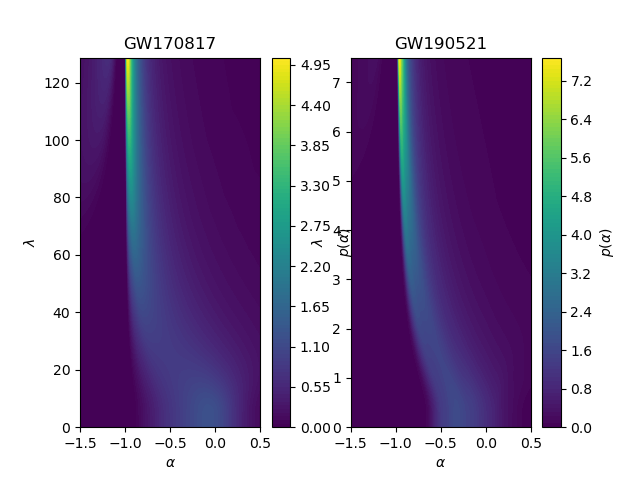
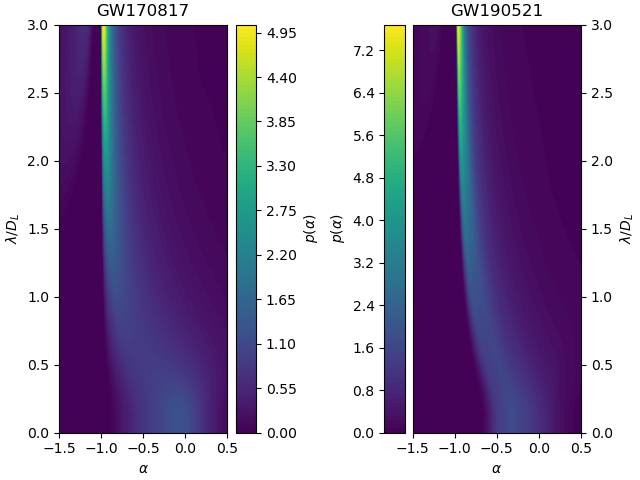
plot3 ok

diff --git a/plot3.1.py b/plot3.1.py
@@ -4,7 +4,7 @@ import matplotlib as mpl
 import matplotlib.image as mpimg
 import matplotlib.pyplot as plt
 
-fig, axs = plt.subplots(nrows=2)
+fig, axs = plt.subplots(nrows=2, layout='constrained')
 
 f = h5py.File('GW170817_GWTC-1.hdf5','r')
 dset = f['IMRPhenomPv2NRT_lowSpin_posterior']
@@ -30,9 +30,11 @@ g, p_g = g/2.5, p_g*2.5
 s = ((g[1:]-g[:-1])*(p_g[1:]+p_g[:-1])).sum()/2
 g_19, p_g_19 = g, p_g/s
 
-def plot(ax, lamdas,
-         alphas=np.linspace(-1.5, 0.5, 1001)):
-    plt.xlim((alphas.min(), alphas.max()))
+def plot(ax,
+         lamdas=np.linspace(0, 42.9*3, 101),
+         alphas=np.linspace(-1.5, 0.5, 1001),
+         levels=101, cmap='viridis', norm='linear'):
+    axs[ax].set_xlim((alphas.min(), alphas.max()))
     p_alphas = np.empty((lamdas.size, alphas.size))
     for i in range(lamdas.size):
         lamda = lamdas[i]
@@ -42,7 +44,7 @@ def plot(ax, lamdas,
         else:
             e = (1+d_l/lamda)*np.exp(-d_l/lamda)
             a_17 = -((1-g_17)/(1-g_17*e))
-        a_17 = a_17[np.where(abs(a_17)<=5)]
+        a_17 = a_17[np.where(abs(a_17)<=10)]
         bins = int((a_17.max()-a_17.min())*200)
         hist, bin_edges = np.histogram(a_17, bins=bins, density=True)
         a_17, p_a_17 = (bin_edges[:-1]+bin_edges[1:])/2, hist
@@ -56,21 +58,27 @@ def plot(ax, lamdas,
             e = (1+2.5e3/lamda)*np.exp(-2.5e3/lamda)
             a_19 = -((1-g_19)/(1-g_19*e))
             p_a_19 = p_g_19*((1-e)/(1+a_19*e)**2)
+        a_i = np.sort_complex(a_19+p_a_19*1j)
+        a_19, p_a_19 = a_i.real, a_i.imag
         s = ((a_19[1:]-a_19[:-1])*(p_a_19[1:]+p_a_19[:-1])).sum()/2
         a_19, p_a_19 = a_19, p_a_19/s
-        a = np.sort(np.hstack((a_17, a_19)))
-        p_a = (np.interp(a, a_17, p_a_17, left=0, right=0)
-              +np.interp(a, a_19, p_a_19, left=0, right=0))/2
-        p_alphas[i] = np.interp(alphas, a, p_a)
-    return axs[ax].contourf(alphas, lamdas, p_alphas, levels=100)
+        p_alphas[i] = (np.interp(alphas, a_17, p_a_17)
+                      +np.interp(alphas, a_19, p_a_19))/2
+    if (ax == 0):
+        extend = 'neither'
+    if (ax == 1):
+        p_alphas[p_alphas>5] = 5
+        extend = 'max'
+    return axs[ax].contourf(alphas, lamdas, p_alphas,
+                            levels=levels, cmap=cmap, extend=extend)
 
-qcs0 = plot(ax=0, lamdas=np.linspace(0, 42.9*3, 101))
-qcs1 = plot(ax=1, lamdas=np.linspace(2.5e3/3, 2.5e3*3, 101))
+qcs_0 = plot(0)
+qcs_1 = plot(1,
+             lamdas=np.linspace(2.5e3/3, 2.5e3*3, 101))
+fig.suptitle('GW170817 + GW190521')
 for ax in axs:
-    ax.set_xlabel('$\\alpha$')
-    ax.set_ylabel('$\\lambda$(Mpc)')
-for qcs in (qcs0, qcs1):
-    plt.colorbar(qcs, label='$p(\\alpha)$')
-
-fig.suptitle('GW170817+GW190521')
+   ax.set_xlabel('$\\alpha$')
+   ax.set_ylabel('$\\lambda$(Mpc)')
+fig.colorbar(qcs_0, ax=axs[0], label='$p(\\alpha)$')
+fig.colorbar(qcs_1, ax=axs[1], label='$p(\\alpha)$')
 fig.savefig('plot3_1')

diff --git a/plot2.1.py b/plot2.1.py
@@ -4,7 +4,7 @@ import matplotlib as mpl
 import matplotlib.image as mpimg
 import matplotlib.pyplot as plt
 
-fig, axs = plt.subplots(ncols=2)
+fig, axs = plt.subplots(ncols=2, layout='constrained')
 
 f = h5py.File('GW170817_GWTC-1.hdf5','r')
 dset = f['IMRPhenomPv2NRT_lowSpin_posterior']
@@ -16,7 +16,7 @@ g, p_g = (bin_edges[:-1]+bin_edges[1:])/2, hist
 s = ((g[1:]-g[:-1])*(p_g[1:]+p_g[:-1])).sum()/2
 g, p_g = g, p_g/s
 
-def plot_17(lamdas=np.linspace(0, 42.9*3, 101),
+def plot_17(lamdas=np.linspace(0, 3, 101),
             alphas=np.linspace(-1.5, 0.5, 1001)):
     axs[0].set_xlim((alphas.min(), alphas.max()))
     p_alphas = np.empty((lamdas.size, alphas.size))
@@ -25,17 +25,19 @@ def plot_17(lamdas=np.linspace(0, 42.9*3, 101),
         if (lamda == 0):
             e = 0
         else:
-            e = (1+42.9/lamda)*np.exp(-42.9/lamda)
+            e = (1+1/lamda)*np.exp(-1/lamda)
         alpha = -((1-g)/(1-g*e))
         p_alpha = p_g*((1-e)/(1+alpha*e)**2)
         alpha_i = np.sort_complex(alpha+p_alpha*1j)
         p_alphas[i] = np.interp(alphas, alpha_i.real, alpha_i.imag)
-    return axs[0].contourf(alphas, lamdas, p_alphas, levels=100)
+    return axs[0].contourf(alphas, lamdas, p_alphas, levels=101)
 
 qcs_17 = plot_17()
 axs[0].set_title('GW170817')
 axs[0].set_xlabel('$\\alpha$')
-axs[0].set_ylabel('$\\lambda$(Mpc)')
+axs[0].set_ylabel('$\\lambda/D_L$')
+axs[0].yaxis.set_label_position('left')
+axs[0].yaxis.tick_left()
 
 img = mpimg.imread('d_l_GW190521.jpg')
 sample = []
@@ -54,7 +56,7 @@ g, p_g = g/2.5, p_g*2.5
 s = ((g[1:]-g[:-1])*(p_g[1:]+p_g[:-1])).sum()/2
 g, p_g = g, p_g/s
 
-def plot_19(lamdas=np.linspace(0, 2.5*3, 101),
+def plot_19(lamdas=np.linspace(0, 3, 101),
             alphas=np.linspace(-1.5, 0.5, 1001)):
     axs[1].set_xlim((alphas.min(), alphas.max()))
     p_alphas = np.empty((lamdas.size, alphas.size))
@@ -63,18 +65,20 @@ def plot_19(lamdas=np.linspace(0, 2.5*3, 101),
         if (lamda == 0):
             e = 0
         else:
-            e = (1+2.5/lamda)*np.exp(-2.5/lamda)
+            e = (1+1/lamda)*np.exp(-1/lamda)
         alpha = -((1-g)/(1-g*e))
         p_alpha = p_g*((1-e)/(1+alpha*e)**2)
         alpha_i = np.sort_complex(alpha+p_alpha*1j)
         p_alphas[i] = np.interp(alphas, alpha_i.real, alpha_i.imag)
-    return axs[1].contourf(alphas, lamdas, p_alphas, levels=100)
+    return axs[1].contourf(alphas, lamdas, p_alphas, levels=101)
 
 qcs_19 = plot_19()
 axs[1].set_title('GW190521')
 axs[1].set_xlabel('$\\alpha$')
-axs[1].set_ylabel('$\\lambda$(Gpc)')
+axs[1].set_ylabel('$\\lambda/D_L$')
+axs[1].yaxis.set_label_position('right')
+axs[1].yaxis.tick_right()
 
-fig.colorbar(qcs_17, ax=axs[0], label='$p(\\alpha)$')
-fig.colorbar(qcs_19, ax=axs[1], label='$p(\\alpha)$')
+fig.colorbar(qcs_17, ax=axs[0], location='right', label='$p(\\alpha)$')
+fig.colorbar(qcs_19, ax=axs[1], location='left' , label='$p(\\alpha)$')
 fig.savefig('plot2_1')

diff --git a/plot4.py b/plot4.py
@@ -53,6 +53,8 @@ def plot(lamdas=np.linspace(0, 42.9*3, 101)):
             e = (1+2.5e3/lamda)*np.exp(-2.5e3/lamda)
             a_19 = -((1-g_19)/(1-g_19*e))
             p_a_19 = p_g_19*((1-e)/(1+a_19*e)**2)
+        a_i = np.sort_complex(a_19+p_a_19*1j)
+        a_19, p_a_19 = a_i.real, a_i.imag
         s = ((a_19[1:]-a_19[:-1])*(p_a_19[1:]+p_a_19[:-1])).sum()/2
         a_19, p_a_19 = a_19, p_a_19/s
         p_a_19[np.where(p_a_19==0)] = 1e-9
@@ -69,7 +71,8 @@ def plot(lamdas=np.linspace(0, 42.9*3, 101)):
     plt.plot(lamdas, js)
 
 plot()
-plt.ylim(0, 0.8) 
+plot(lamdas=np.linspace(2.5e3/3, 2.5e3*3, 101))
+plt.ylim() 
 plt.title('GW170817 vs GW190521')
 plt.xlabel('$\\lambda$(Mpc)')
 plt.ylabel('JS divergence')
